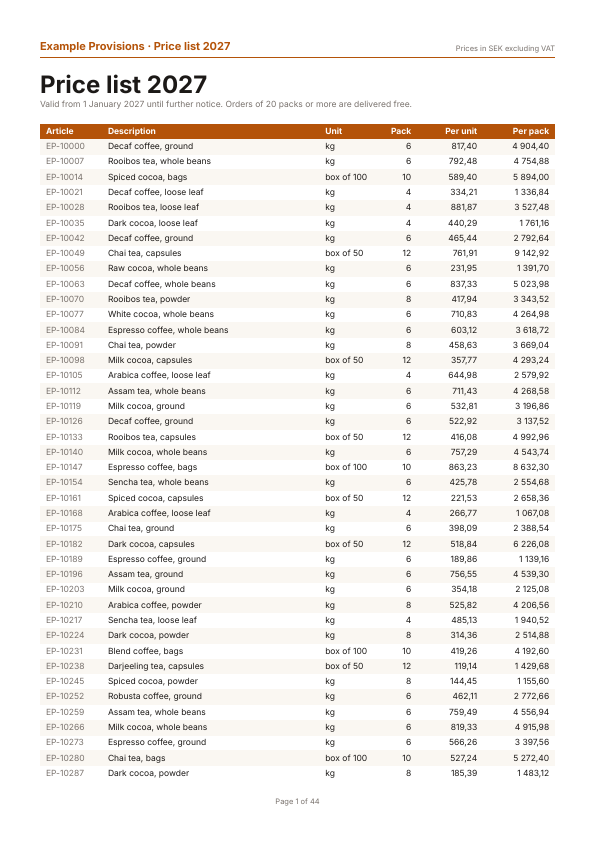
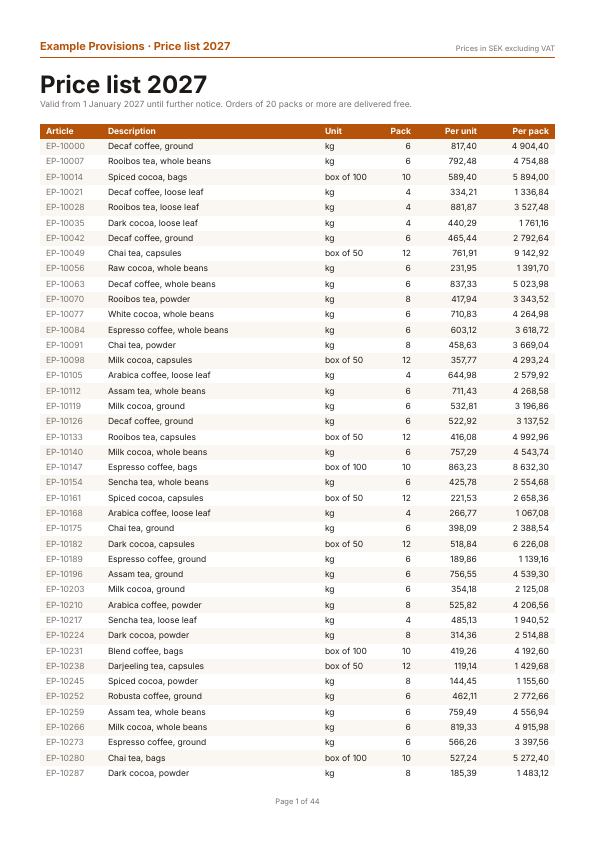
docs: the price list reads its articles lazily, every column given a width
The Description column is 217 points where it took the 217.28 the others left, so the file changes: its digest in spec/fixtures/renders/main.json is recorded again at 0.10.1 and its preview drawn again. The streamed file is byte for byte the one the same rows as an Array write.

diff --git a/examples/price_list.rb b/examples/price_list.rb
@@ -1,9 +1,9 @@
 # frozen_string_literal: true
 
 # A wholesale price list of 2,000 articles over forty-odd pages: one long
-# table read from an Enumerator of records, its header row repeated on every
-# page, written incrementally so each page lets go of its content once it is
-# painted. Run it to write examples/price_list.pdf:
+# table read from an Enumerator of records as pages reach them, its header
+# row repeated on every page, written incrementally so each page lets go of
+# its content once it is painted. Run it to write examples/price_list.pdf:
 #
 #   ruby -Ilib examples/price_list.rb
 #   ruby -Ilib exe/stationery render examples/price_list.rb
@@ -73,23 +73,24 @@ class ExamplePriceList < Stationery::Document
 
   private
 
-  # `table` takes any Enumerable of rows and reads it once, as the table is
-  # built; the header row is the first and repeats after every page break.
+  # An Enumerator of rows, to a table whose every column has a width, is
+  # read as pages reach them: no more than a page of articles is held at a
+  # time (`Article.find_each.lazy.map { … }` reads a database the same way).
+  # The header row is the first and repeats after every page break.
   def price_table
-    rows = Enumerator.new do |yielder|
-      yielder << ["Article", "Description", "Unit", "Pack", "Per unit", "Per pack"]
-      @articles.each do |article|
-        yielder << [article.number, article.name, article.unit, article.pack.to_s, money(article.price),
-                    money(article.price * article.pack)]
-      end
-    end
-    table(rows, header: true, width: :full, widths: [62, nil, 62, 36, 66, 72],
-                cell: { padding: [2.5, 6], borders: [] }) do |t|
+    header = ["Article", "Description", "Unit", "Pack", "Per unit", "Per pack"]
+    rows = [header].each + @articles.lazy.map { |article| article_row(article) }
+    table(rows, header: true, widths: [62, 217, 62, 36, 66, 72], cell: { padding: [2.5, 6], borders: [] }) do |t|
       t.row(0).set(background: ACCENT, color: "#FFFFFF", weight: :bold)
       t.columns(3..).align = :right
       t.columns(0).rows(1..).color = MUTED
       t.zebra(from: 1, color: ZEBRA)
     end
+  end
+
+  def article_row(article)
+    [article.number, article.name, article.unit, article.pack.to_s, money(article.price),
+     money(article.price * article.pack)]
   end
 
   def money(amount)

diff --git a/docs/app/views/docs/pages/examples.rb b/docs/app/views/docs/pages/examples.rb
@@ -58,8 +58,9 @@ class Views::Docs::Pages::Examples < DocsUI::Page
      "between them: justified, hyphenated paragraphs with `orphans:` and `widows:`, headings kept with " \
      "what follows, a photo with its caption kept together, and a note across the page below the columns." ],
     [ "Price list", "price_list",
-     "2,000 articles over forty-four pages: a table read from an `Enumerator` of records (a seeded `Random`, " \
-     "so the file is the same every time), its header row repeated on every page, a header and a footer " \
+     "2,000 articles over forty-four pages: a table read from a lazy `Enumerator` of records as pages reach " \
+     "them, every column given a width (a seeded `Random`, so the file is the same every time), its header " \
+     "row repeated on every page, a header and a footer " \
      "with page numbers, and `incremental`, so each page's content is written as soon as it is painted." ],
     [ "Contract", "contract",
      "Numbered clauses and sub-clauses whose headings keep 50 points of their text with them " \

diff --git a/spec/integration/price_list_spec.rb b/spec/integration/price_list_spec.rb
@@ -14,6 +14,22 @@ RSpec.describe "the example price list" do
     expect(first.map(&:number).uniq.size).to eq(50)
   end
 
+  it "reads its articles as pages reach them, none when the document is built" do
+    read = 0
+    articles = ExamplePriceList.articles(400).lazy.map { |article| (read += 1) && article }
+    built = nil
+    probe = Object.new
+    probe.define_singleton_method(:instrument) do |name, payload = {}, &block|
+      block.call(payload).tap { built = read if name == "build.stationery" }
+    end
+    previous = Stationery.instrumenter
+    Stationery.instrumenter = probe
+    ExamplePriceList.new(articles).to_pdf
+    Stationery.instrumenter = previous
+
+    expect([built, read]).to eq([0, 400])
+  end
+
   it "lists every article once, over as many pages as it takes, without warnings" do
     numbers = text_of(pdf).scan(/\bEP-\d{5}\b/)
 
